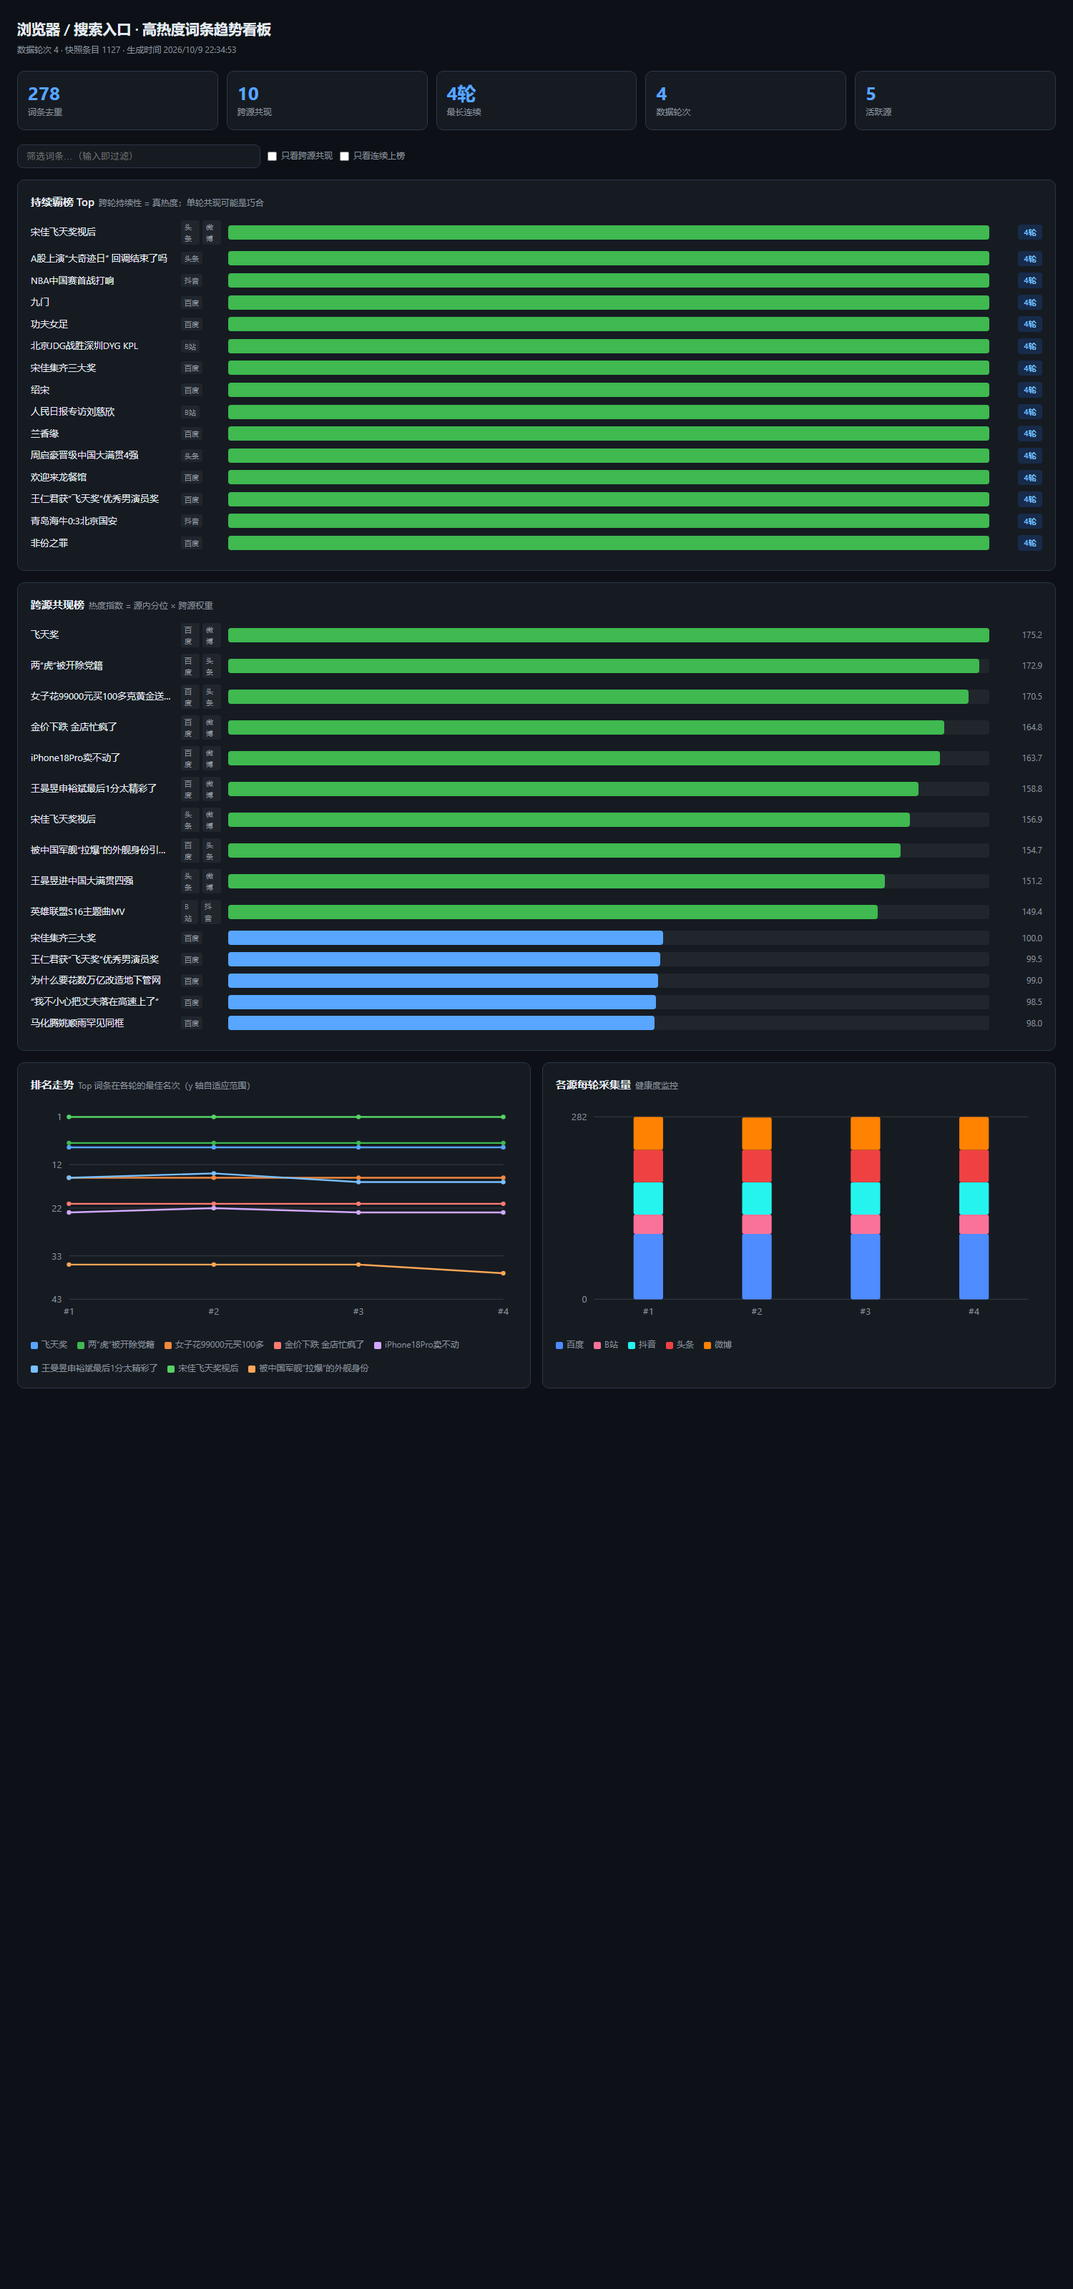
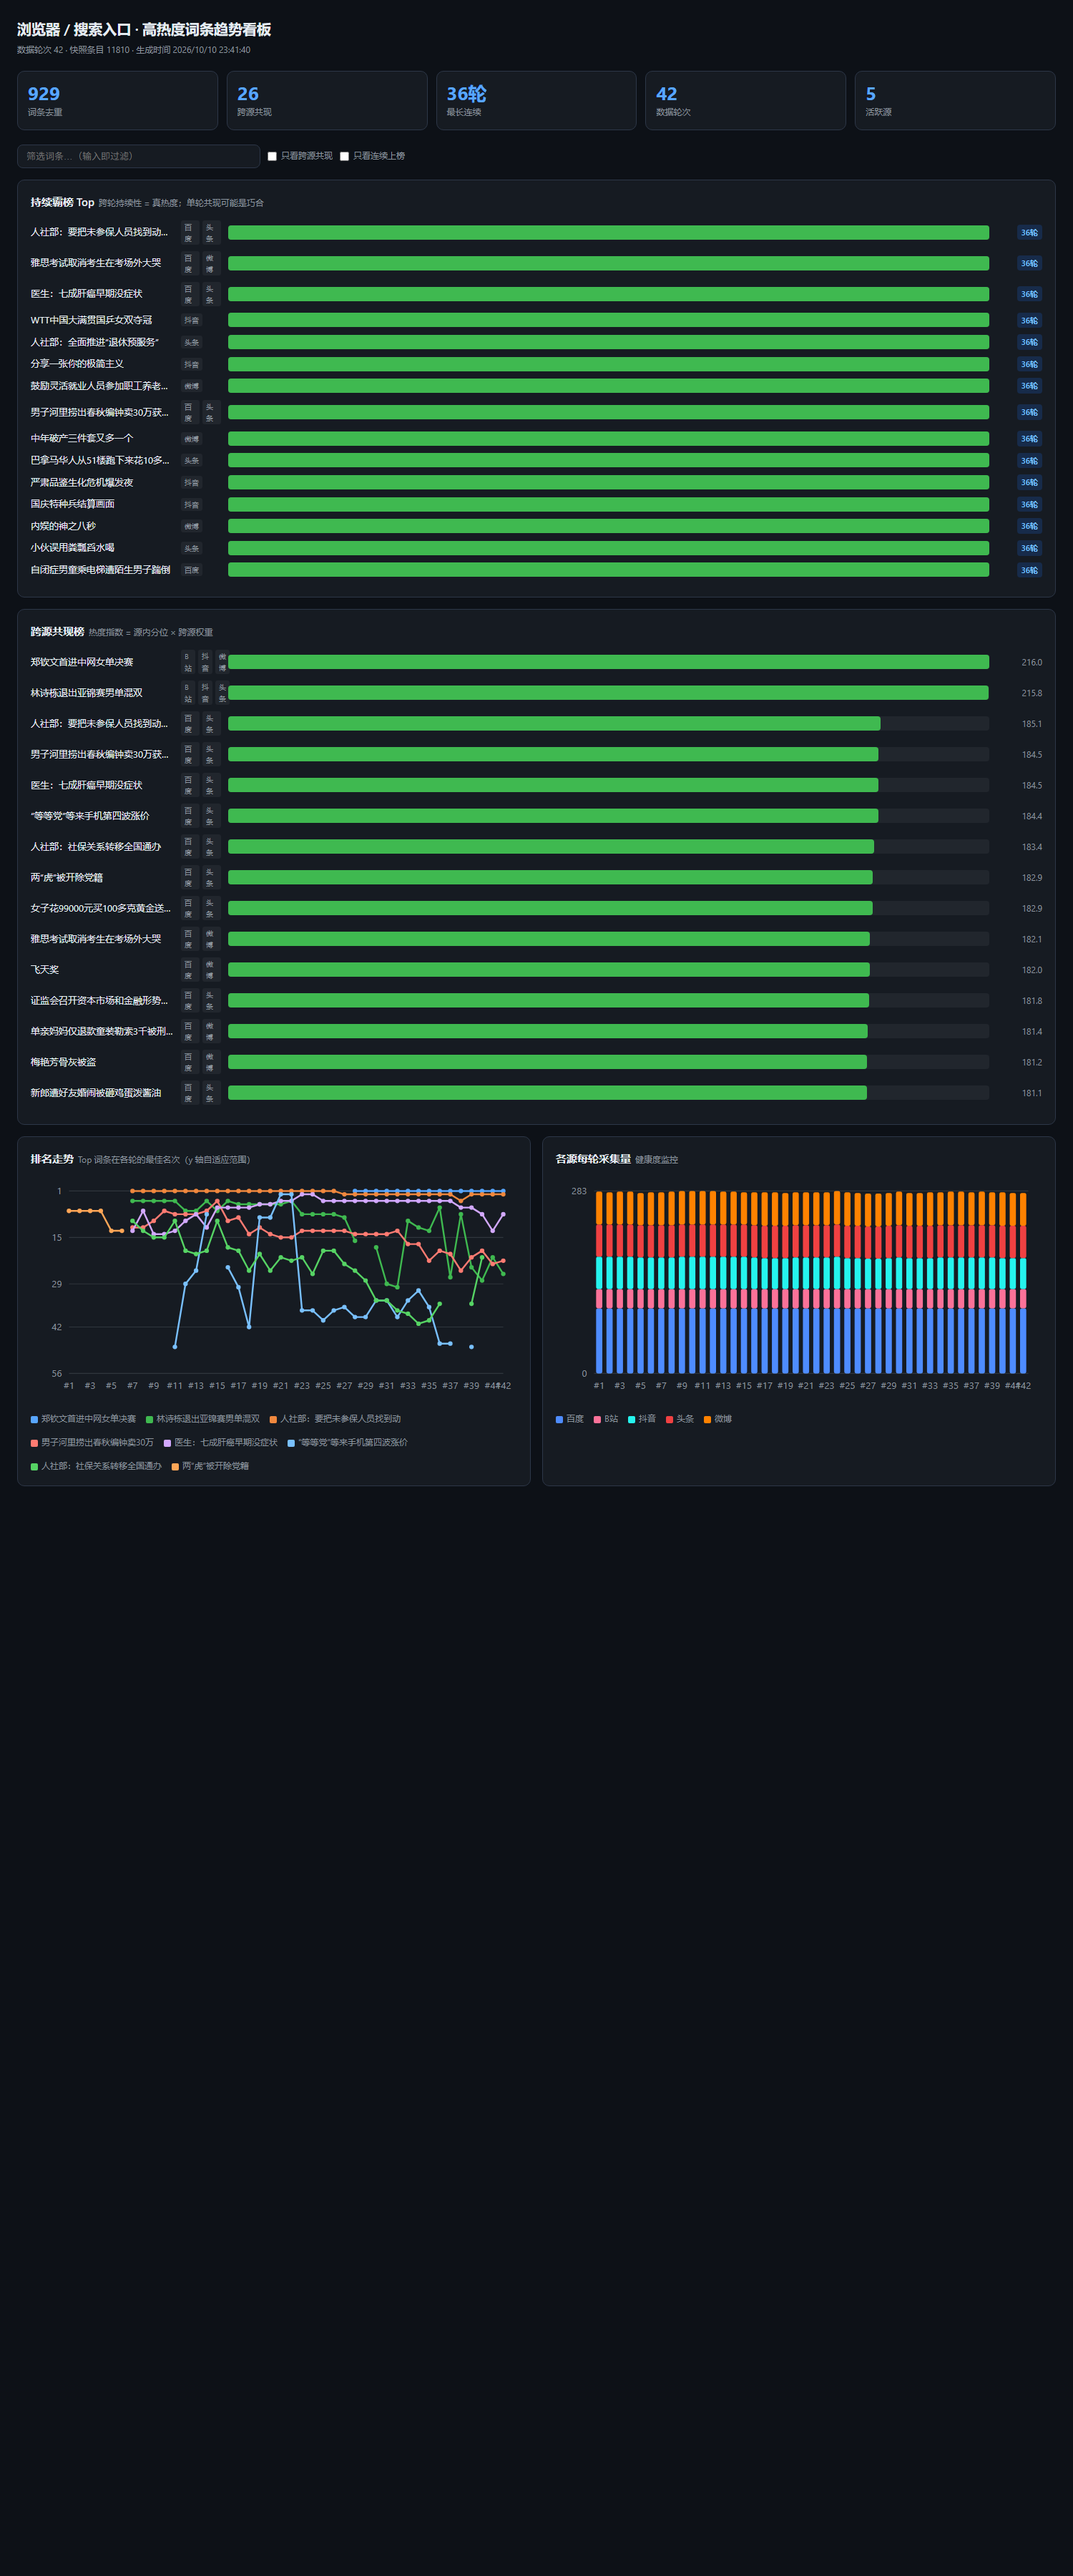
feat(analysis): 排除平台运营榜，趋势/看板默认全量
- sources.yaml 新增 track_exclude 标记：数据仍照常采集入库，
  只是不参与 word_track 统计，快照层证据完整、分析层不被污染。
  实测百度 teleplay/movie/novel 三个垂类推广位连续 39/39 轮钉住 #1，
  会以接近满分的持续度霸占榜单前列，把真实跨源热点挤出去。
- retrack 从快照全量重放重建，并打印本轮排除的榜单。
- trend / cross / render_dashboard 默认聚合全部轮次（新增 --last N），
  原固定"最近 20 轮"会让长跑后 KPI 显著偏小，属误导性数字。
- 新增断档检测 MAX_GAP_MINUTES（默认 180）：相邻两轮间隔超阈值视为中断，
  streak 归零，修正"停一晚再挂"被误算成连续的问题。

Changed region(s): [[0.0, 0.0, 0.9813, 0.5938]]

diff --git a/hotwords/analysis.py b/hotwords/analysis.py
@@ -20,9 +20,13 @@
 """
 from __future__ import annotations
 
+import logging
 import math
 from dataclasses import dataclass, field
+from datetime import datetime
 from typing import Any
+
+logger = logging.getLogger(__name__)
 
 
 @dataclass(slots=True)
@@ -163,7 +167,11 @@ def load_recent_snapshot(repo, run_id: str | None = None) -> list[dict]:
 
 
 def load_snapshot_over_runs(repo, last_n: int = 10) -> list[dict]:
-    """跨多轮聚合：用于"持续上榜"分析（比单轮更稳）。"""
+    """跨多轮聚合：用于"持续上榜"分析（比单轮更稳）。
+
+    last_n <= 0 表示【全部轮次】（长跑之后默认只看最近 N 轮会漏掉大量词条，
+    导致看板"累计词条"数远小于实际，容易误读）。
+    """
     run_ids = _recent_run_ids(repo, last_n)
     if not run_ids:
         return []
@@ -177,23 +185,27 @@ def load_snapshot_over_runs(repo, last_n: int = 10) -> list[dict]:
 
 
 def _recent_run_ids(repo, last_n: int) -> list[str]:
-    """按插入顺序（rowid）取最近 N 轮 run_id。
+    """按插入顺序（rowid）取最近 N 轮 run_id；last_n <= 0 取全部。
 
     不用 started_at：同一秒内跑多轮时时间戳退化，排序不确定。
     """
-    return [
-        r["run_id"]
-        for r in repo.conn.execute(
-            "SELECT run_id FROM run WHERE status IN ('ok','partial') "
-            "ORDER BY rowid DESC LIMIT ?",
-            (last_n,),
-        ).fetchall()
-    ]
+    sql = ("SELECT run_id FROM run WHERE status IN ('ok','partial') "
+           "ORDER BY rowid DESC")
+    params: tuple = ()
+    if last_n and last_n > 0:
+        sql += " LIMIT ?"
+        params = (last_n,)
+    return [r["run_id"] for r in repo.conn.execute(sql, params).fetchall()]
 
 
 # ============================================================
 # 持续上榜分析（V3 主线）
 # ============================================================
+# 断档阈值：相邻两轮的间隔超过该值即视为"中断"，streak 不再延续。
+# 没有它，跨天（停一晚再挂）会被误算成"连续"，streak 一路虚高，
+# "连续 N 轮"就失去意义 —— 实测踩到：隔 19 小时仍被判为相邻轮。
+# 挂机整轮默认 10 分钟，3 小时容差足以覆盖重启/短暂中断，又能在跨天时正确断开。
+MAX_GAP_MINUTES = 180
 # 核心问题：单轮"跨源共现"有偶发噪声 —— 某词刚好两源同时出现，未必是真热点。
 # 真正稳定的信号是"跨轮持续性"：
 #     连续 N 轮都在榜  >>  只出现 1 轮
@@ -269,10 +281,49 @@ def compute_persistence_score(
     )
 
 
-def track_persistence(repo, run_id: str, total_runs: int | None = None) -> int:
+def _exclude_clause(exclude: set[tuple[str, str]] | None) -> tuple[str, list]:
+    """把 {(source, category)} 排除集合编译成 SQL 片段。
+
+    返回 (sql_fragment, params)。用于过滤【运营推广位】——
+    如百度 movie/novel/teleplay 榜，其 #1 在 39/39 轮里纹丝不动，
+    并非搜索热度，必须排除在持续上榜统计之外（详见 sources.yaml 注释）。
+    """
+    if not exclude:
+        return "", []
+    ors, params = [], []
+    for src, cat in sorted(exclude):
+        ors.append("(source=? AND category=?)")
+        params.extend([src, cat])
+    return " AND NOT (" + " OR ".join(ors) + ")", params
+
+
+def _gap_minutes(prev_finished: str | None, cur_started: str | None) -> float | None:
+    """两个 ISO 时间戳之间的分钟数；任一缺失或无法解析则返回 None。"""
+    if not prev_finished or not cur_started:
+        return None
+    try:
+        a = datetime.fromisoformat(prev_finished)
+        b = datetime.fromisoformat(cur_started)
+    except (ValueError, TypeError):
+        return None
+    return (b - a).total_seconds() / 60.0
+
+
+def track_persistence(
+    repo,
+    run_id: str,
+    total_runs: int | None = None,
+    max_gap_minutes: int = MAX_GAP_MINUTES,
+    exclude: set[tuple[str, str]] | None = None,
+) -> int:
     """增量更新 word_track。返回本轮涉及词条数。
 
     在每轮采集完成后调用（pipeline.run_once 末尾）。
+
+    max_gap_minutes: 与上一轮的间隔超过该值即视为断档（streak 重置），
+                     避免跨天的两段挂机被误算成"连续"。
+    exclude:         {(source, category)} 黑名单，这些榜单不参与统计
+                     （运营推广位）。数据仍保留在 snapshot 里。
     """
     import hashlib
     from hotwords.models import utcnow_iso
@@ -280,12 +331,13 @@ def track_persistence(repo, run_id: str, total_runs: int | None = None) -> int:
 
     now = utcnow_iso()
 
-    # 本轮各词条的最佳名次 + 来源（跳过置顶 rank=0）
+    # 本轮各词条的最佳名次 + 来源（跳过置顶 rank=0；并剔除运营位）
+    where, params = _exclude_clause(exclude)
     rows = repo.conn.execute(
-        """SELECT word, MIN(CASE WHEN rank>0 THEN rank END) AS best_rank,
+        f"""SELECT word, MIN(CASE WHEN rank>0 THEN rank END) AS best_rank,
                   GROUP_CONCAT(DISTINCT source) AS srcs
-           FROM snapshot WHERE run_id=? GROUP BY word""",
-        (run_id,),
+           FROM snapshot WHERE run_id=?{where} GROUP BY word""",
+        (run_id, *params),
     ).fetchall()
 
     if total_runs is None:
@@ -296,13 +348,30 @@ def track_persistence(repo, run_id: str, total_runs: int | None = None) -> int:
     # 上一轮：用 rowid 判定插入顺序，不依赖 started_at
     # （同一秒内跑多轮时 started_at 会退化，导致 prev_run 选错，实测踩到）
     prev_row = repo.conn.execute(
-        """SELECT r.run_id FROM run r
+        """SELECT r.run_id, r.finished_at FROM run r
            WHERE r.status IN ('ok','partial')
              AND r.rowid < (SELECT rowid FROM run WHERE run_id = ?)
            ORDER BY r.rowid DESC LIMIT 1""",
         (run_id,),
     ).fetchone()
-    prev_run = prev_row["run_id"] if prev_row else None
+
+    prev_run = None
+    if prev_row:
+        cur_row = repo.conn.execute(
+            "SELECT started_at FROM run WHERE run_id=?", (run_id,)
+        ).fetchone()
+        gap = _gap_minutes(
+            prev_row["finished_at"], cur_row["started_at"] if cur_row else None
+        )
+        # gap 为 None（时间戳缺失/无法解析）时按"中断"处理：
+        # 宁可重置 streak，也不让缺失的时间戳撑出虚高的连续记录。
+        if gap is not None and gap <= max_gap_minutes:
+            prev_run = prev_row["run_id"]
+        else:
+            logger.debug(
+                "距上一轮 %s 分钟（阈值 %d），视为断档，streak 重置",
+                f"{gap:.1f}" if gap is not None else "未知", max_gap_minutes,
+            )
 
     touched = 0
     seen_hashes: set[str] = set()
@@ -373,6 +442,39 @@ def track_persistence(repo, run_id: str, total_runs: int | None = None) -> int:
         )
 
     repo.conn.commit()
+    return touched
+
+
+def rebuild_track(
+    repo,
+    max_gap_minutes: int = MAX_GAP_MINUTES,
+    exclude: set[tuple[str, str]] | None = None,
+) -> int:
+    """从 snapshot 全量重放，重建 word_track。
+
+    用途：
+      - 修正历史脏数据（早期版本没有断档检测，跨天会被算成"连续"）
+      - 调整算法或权重之后重算
+      - 调整运营位排除清单之后重算（exclude 参数）
+    返回末轮涉及的词条数。
+    """
+    repo.conn.execute("DELETE FROM word_track")
+    repo.conn.commit()
+
+    run_ids = [
+        r["run_id"]
+        for r in repo.conn.execute(
+            "SELECT run_id FROM run WHERE status IN ('ok','partial') ORDER BY rowid"
+        ).fetchall()
+    ]
+    total = len(run_ids)
+    touched = 0
+    for rid in run_ids:
+        touched = track_persistence(
+            repo, rid, total_runs=max(total, 1),
+            max_gap_minutes=max_gap_minutes, exclude=exclude,
+        )
+    logger.info("word_track 已从 %d 轮快照重建，末轮涉及 %d 个词条", total, touched)
     return touched
 
 

diff --git a/hotwords/__main__.py b/hotwords/__main__.py
@@ -19,11 +19,19 @@ from hotwords.storage import Repository
 LOG_FMT = "%(asctime)s %(levelname)-7s %(name)s | %(message)s"
 
 
-def _setup_logging(verbose: bool) -> None:
+def _setup_logging(verbose: bool, log_file: str | None = None) -> None:
+    handlers: list[logging.Handler] = [logging.StreamHandler()]
+    if log_file:
+        from pathlib import Path
+
+        p = Path(log_file)
+        p.parent.mkdir(parents=True, exist_ok=True)
+        handlers.append(logging.FileHandler(p, encoding="utf-8"))
     logging.basicConfig(
         level=logging.DEBUG if verbose else logging.INFO,
         format=LOG_FMT,
         datefmt="%H:%M:%S",
+        handlers=handlers,
     )
 
 
@@ -102,6 +110,25 @@ def cmd_track(args) -> int:
     return 0
 
 
+def cmd_retrack(args) -> int:
+    from hotwords.analysis import rebuild_track
+
+    repo = Repository(args.db)
+    cfg = load_config(args.config) if args.config else load_config()
+    n = rebuild_track(
+        repo, max_gap_minutes=args.max_gap, exclude=cfg.track_excluded()
+    )
+    runs = repo.conn.execute(
+        "SELECT COUNT(*) c FROM run WHERE status IN ('ok','partial')"
+    ).fetchone()["c"]
+    excl = cfg.track_excluded()
+    if excl:
+        listed = ", ".join(f"{s}/{c}" for s, c in sorted(excl))
+        print(f"（已排除运营位: {listed}）")
+    print(f"已从 {runs} 轮快照重建持续上榜数据，末轮涉及 {n} 个词条。")
+    return 0
+
+
 def cmd_cross(args) -> int:
     from hotwords.analysis import compute_cross_source, load_snapshot_over_runs
 
@@ -134,7 +161,7 @@ def cmd_trend(args) -> int:
 def cmd_run(args) -> int:
     from hotwords.scheduler import run_forever
 
-    run_forever(args.db, once=False)
+    run_forever(args.db, once=False, interval_min=args.interval)
     return 0
 
 
@@ -143,11 +170,16 @@ def main(argv: list[str] | None = None) -> int:
     p.add_argument("-v", "--verbose", action="store_true")
     p.add_argument("--db", default="hotwords.db", help="SQLite 路径")
     p.add_argument("--config", default=None, help="源配置路径")
+    p.add_argument("--log-file", default=None, help="同时把日志追加写入该文件")
     sub = p.add_subparsers(dest="cmd", required=True)
 
-    sub.add_parser("run", help="常驻调度").set_defaults(func=cmd_run)
     sub.add_parser("once", help="跑一轮").set_defaults(func=cmd_once)
     sub.add_parser("sources", help="列出源").set_defaults(func=cmd_sources)
+
+    pr = sub.add_parser("run", help="常驻调度（整轮全量）")
+    pr.add_argument("--interval", type=int, default=None,
+                    help="整轮间隔分钟（默认取各启用源的最大值，即不加速任何源）")
+    pr.set_defaults(func=cmd_run)
 
     pa = sub.add_parser("alerts", help="查看告警")
     pa.add_argument("--limit", type=int, default=20)
@@ -157,7 +189,8 @@ def main(argv: list[str] | None = None) -> int:
 
     pc = sub.add_parser("cross", help="跨源共现榜")
     pc.add_argument("--limit", type=int, default=30)
-    pc.add_argument("--last", type=int, default=10, help="聚合最近 N 轮")
+    pc.add_argument("--last", type=int, default=0,
+                    help="聚合最近 N 轮；0（默认）= 全部轮次")
     pc.set_defaults(func=cmd_cross)
 
     pk = sub.add_parser("track", help="持续上榜榜")
@@ -165,13 +198,19 @@ def main(argv: list[str] | None = None) -> int:
     pk.add_argument("--min-streak", type=int, default=1, dest="min_streak")
     pk.set_defaults(func=cmd_track)
 
+    pb = sub.add_parser("retrack", help="从快照全量重建持续上榜数据")
+    pb.add_argument("--max-gap", type=int, default=180, dest="max_gap",
+                    help="断档阈值（分钟）：相邻两轮间隔超过该值即视为中断")
+    pb.set_defaults(func=cmd_retrack)
+
     pt = sub.add_parser("trend", help="生成趋势可视化 HTML")
     pt.add_argument("--out", default="dashboard.html")
-    pt.add_argument("--last", type=int, default=20, help="聚合最近 N 轮")
+    pt.add_argument("--last", type=int, default=0,
+                    help="聚合最近 N 轮；0（默认）= 全部轮次")
     pt.set_defaults(func=cmd_trend)
 
     args = p.parse_args(argv)
-    _setup_logging(args.verbose)
+    _setup_logging(args.verbose, args.log_file)
     return args.func(args)
 
 

diff --git a/hotwords/config/__init__.py b/hotwords/config/__init__.py
@@ -40,10 +40,22 @@ class SourceConfig:
     assertions: AssertionConfig
     robots_checked: str | None = None
     robots_note: str | None = None
+    # 不参与「持续上榜」统计的榜单（tab 名）。空 = 该源全部参与。
+    #
+    # 为什么需要：百度 top.baidu.com/api/board 的 movie / novel / teleplay 三个
+    # 垂直榜是【运营推广位】，不是搜索热度 —— 实测 42 轮里 #1 纹丝不动
+    # （功夫女足 / 绍宋 / 九门），而 realtime 榜 #1 只保持 20/39 轮。
+    # 若不排除，这些"钉子"会因持续度算法里的「连续轮数」「最佳名次」两项
+    # 天然拿满分，直接霸占持续上榜榜的前十几位，把真实跨源热点挤出榜单。
+    track_exclude: tuple[str, ...] = ()
 
     @property
     def tabs(self) -> list[str]:
         return self.request.get("tabs") or ["main"]
+
+    def tracked_tabs(self) -> list[str]:
+        """参与持续上榜统计的 tab（排除运营位）。"""
+        return [t for t in self.tabs if t not in self.track_exclude]
 
 
 @dataclass(slots=True)
@@ -53,6 +65,14 @@ class AppConfig:
 
     def enabled_sources(self) -> list[SourceConfig]:
         return [s for s in self.sources if s.enabled]
+
+    def track_excluded(self) -> set[tuple[str, str]]:
+        """返回 {(source_id, tab)} 集合，表示这些榜单不参与持续上榜统计。"""
+        out: set[tuple[str, str]] = set()
+        for s in self.sources:
+            for tab in s.track_exclude:
+                out.add((s.id, tab))
+        return out
 
 
 def load_config(path: str | Path = CONFIG_PATH) -> AppConfig:
@@ -72,6 +92,7 @@ def load_config(path: str | Path = CONFIG_PATH) -> AppConfig:
                 assertions=assert_cfg,
                 robots_checked=s.get("robots_checked"),
                 robots_note=s.get("robots_note"),
+                track_exclude=tuple(s.get("track_exclude") or ()),
             )
         )
     return AppConfig(defaults=raw.get("defaults", {}), sources=sources)

diff --git a/hotwords/render.py b/hotwords/render.py
@@ -41,7 +41,13 @@ def _q1(v: float) -> str:
     return f"{v:.1f}"
 
 
-def render_dashboard(repo, out_path: str = "dashboard.html", last_n: int = 20) -> str:
+def render_dashboard(repo, out_path: str = "dashboard.html", last_n: int = 0) -> str:
+    """生成看板。
+
+    last_n <= 0（默认）= 聚合全部轮次。
+    早期默认只看最近 20 轮，长跑后看板顶部的"累计词条"远小于实际
+    （实测 42 轮的库显示 531，而全库是 932），容易误读。
+    """
     rows = load_snapshot_over_runs(repo, last_n)
 
     # ---- 跨源共现榜 ----
@@ -49,10 +55,13 @@ def render_dashboard(repo, out_path: str = "dashboard.html", last_n: int = 20) -
     top_cross = words[:15]
 
     # ---- 逐轮趋势 ----
+    # last_n <= 0 时取全部轮次；否则只取最近 N 轮
+    _limit_sql = "LIMIT ?" if (last_n and last_n > 0) else ""
+    _limit_p = (last_n,) if (last_n and last_n > 0) else ()
     runs = repo.conn.execute(
         "SELECT run_id, started_at, status FROM run WHERE status IN ('ok','partial') "
-        "ORDER BY started_at ASC LIMIT ?",
-        (last_n,),
+        f"ORDER BY started_at ASC {_limit_sql}",
+        _limit_p,
     ).fetchall()
     run_labels = [r["started_at"][11:19] for r in runs]
     run_ids = [r["run_id"] for r in runs]

diff --git a/hotwords/pipeline.py b/hotwords/pipeline.py
@@ -119,7 +119,9 @@ class Pipeline:
             from hotwords.analysis import track_persistence
 
             try:
-                n = track_persistence(self.repo, run_id)
+                n = track_persistence(
+                    self.repo, run_id, exclude=self.cfg.track_excluded()
+                )
                 logger.info("持续上榜追踪更新: %d 个词条", n)
             except Exception as e:  # 追踪失败不能影响采集主流程
                 logger.warning("持续上榜追踪失败: %s", e)
